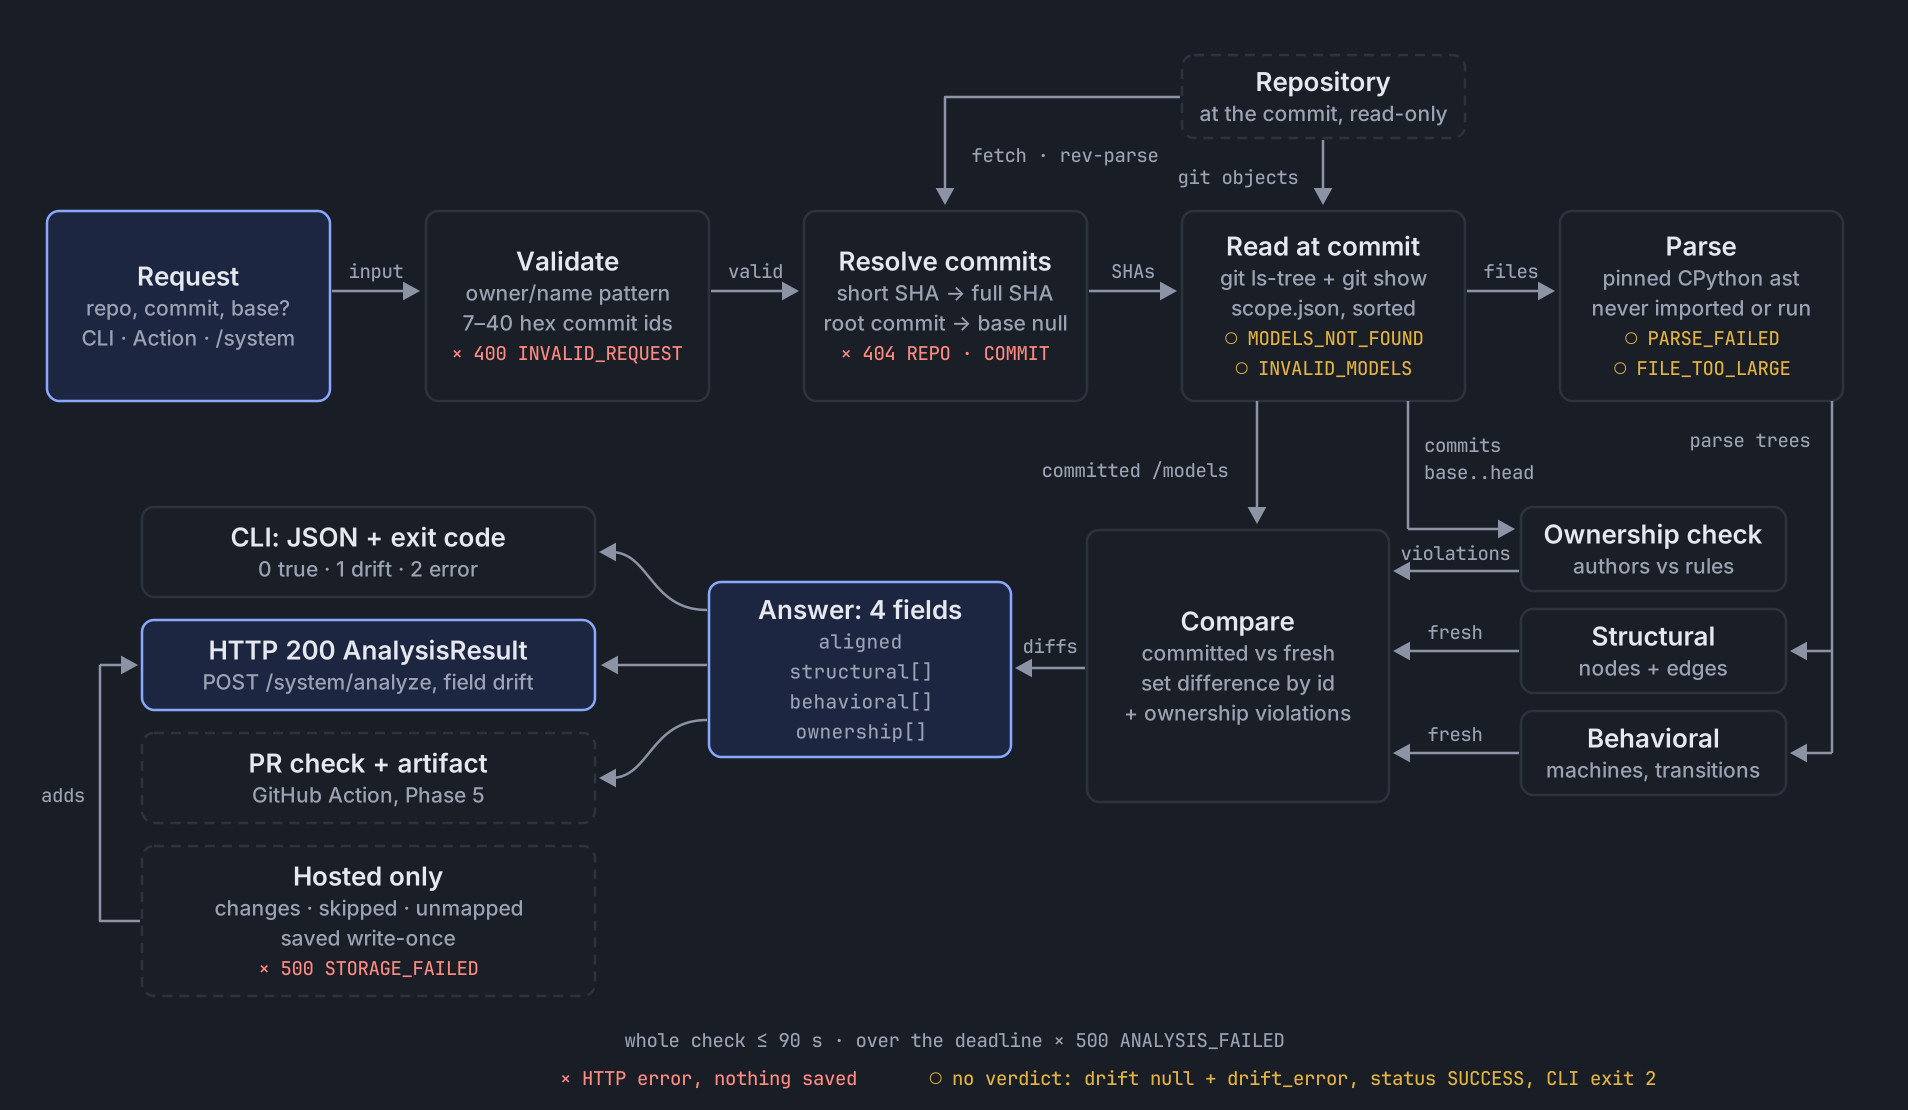
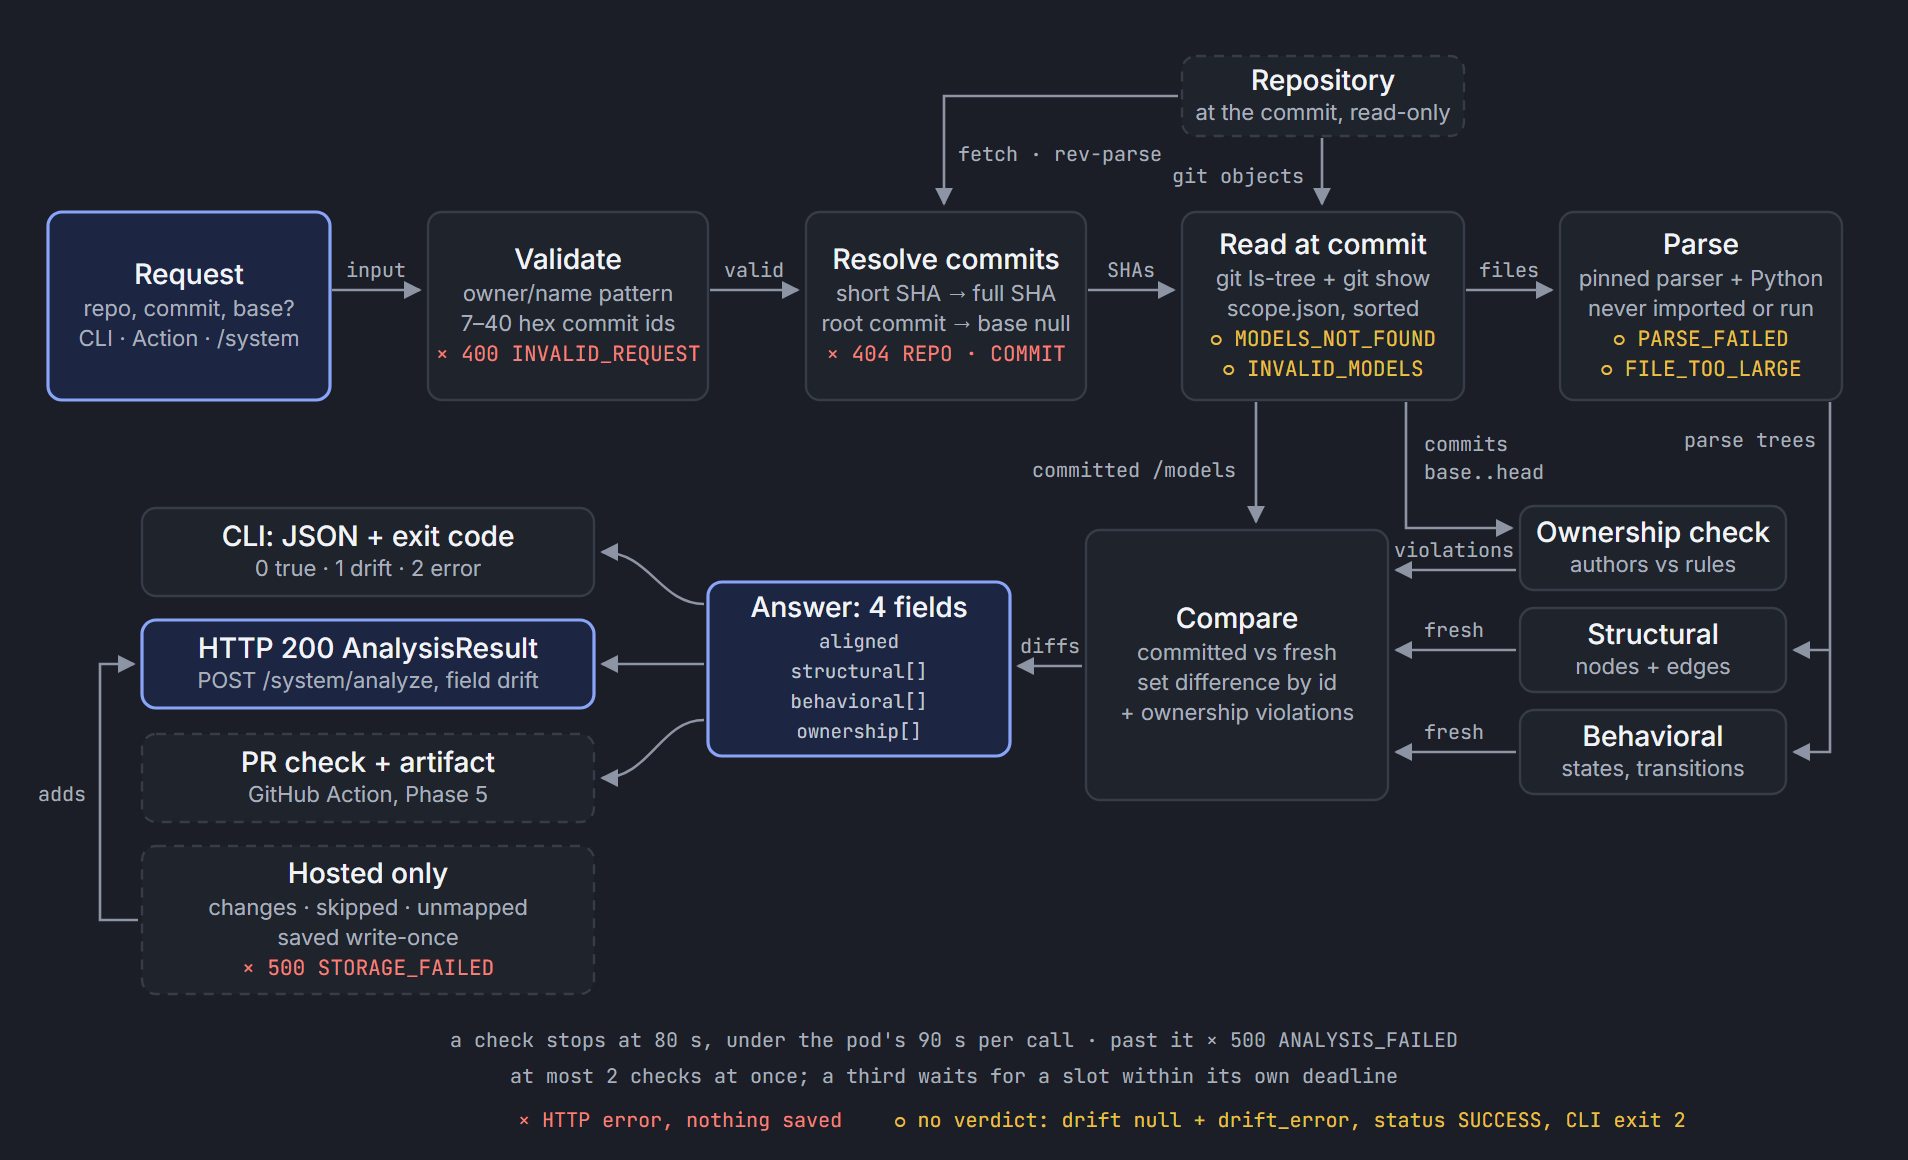
Redraw five diagrams to match the spec and contract 2.4.0
- one-check: 80 s per check, at most 2 at once, no parser named,
  behavioral as states and transitions
- four-field-answer: T-18 to T-21 skip, /health failure gives error
- cross-team-test: one-session 409, /health failure, stop at 570 s
- models-folder: no calls edges; init proposes exact-path ownership
  rules; renames judged at the old path
- who-talks-to-what: an ownership generator, so three generators

The docs map follows the diagrams, and ticket 12 is closed.

diff --git a/docs/README.md b/docs/README.md
@@ -31,13 +31,13 @@ The pod contract with Team 16. Both teams' registry rows link it. It follows Tea
 
 Diagrams of the planned system, exported from the Phase 4 overview page.
 
-- `models/who-talks-to-what.png` — the developer, GitHub and a tester reach one drifter core through the CLI, the GitHub Action (Phase 5) and the hosted service, which serves the pod contract's routes and adds change detection and a result store; the repository is only read. Read it first to understand the system.
+- `models/who-talks-to-what.png` — the developer, GitHub and a tester reach one drifter core (orchestrator, GitHub integration, three generators, comparison) through the CLI, the GitHub Action (Phase 5) and the hosted service, which serves the pod contract's routes and adds change detection and a result store; the repository is only read. Read it first to understand the system.
 - `models/behavioral-model.png` — lifecycle of a repository under the tool: init proposes the models, a person commits them, and each push ends Aligned, Drifted or Failed. The Mermaid source in spec §3.2 is the text version. Only structural and behavioral are regenerated; ownership is checked against its rules (spec §3.2).
-- `models/one-check.png` — one check step by step, from request to four-field answer, with the HTTP error or no-verdict code each step can return, and what the hosted service adds. Read it when working on the orchestrator or errors.
-- `models/models-folder.png` — the four files in `/models` and what each holds. Structural follows `base/structure.md`; behavioral names are illustrative until its format is settled.
+- `models/one-check.png` — one check step by step, from request to four-field answer, with the HTTP error or no-verdict code each step can return, the 80 s deadline per check, and what the hosted service adds. Read it when working on the orchestrator or errors.
+- `models/models-folder.png` — the four files in `/models` and what each holds. Structural follows `base/structure.md` (imports and inherits edges, no calls); behavioral names are illustrative until its format is settled; init proposes one exact-path ownership rule per file.
 - `models/comparison.png` — how differences are decided: set difference by id for structural and behavioral (ADDED, REMOVED, MODIFIED), a rule check per commit for ownership (VIOLATION).
-- `models/four-field-answer.png` — test T-26: the four-field answer as the `drift` key of `POST /system/analyze`, how a tester compares it with `contract/model-golden-outputs.json`, and when the test passes, fails or is skipped. A test is skipped when the target's `/health` does not list `model_drift`.
-- `models/cross-team-test.png` — one cross-team test session as `contract/pod-contract.md` defines it: tester and system routes, the T-01 to T-33 loop over both fixtures, and the report. The tester reads `/health` once first and skips each test whose feature the target does not list.
+- `models/four-field-answer.png` — test T-26: the four-field answer as the `drift` key of `POST /system/analyze`, how a tester compares it with `contract/model-golden-outputs.json`, and when the test passes, fails or is skipped. A test is skipped when the target's `/health` does not list `model_drift`, and is `error` when `/health` gives no 200 within 90 s.
+- `models/cross-team-test.png` — one cross-team test session as `contract/pod-contract.md` defines it: tester and system routes, the T-01 to T-33 loop over both fixtures, and the report. The tester reads `/health` once first and skips each test whose feature the target does not list. It also shows the one-session 409 and the stop at 570 s of the 600 s run.
 - `models/research-evidence.png` — Team 15's tool research: what runs at runtime, what only serves tests, what is rejected. Team 15's choices, not the pod contract.
 
 ## tickets/

diff --git a/docs/tickets/contract-contradictions.md b/docs/tickets/contract-contradictions.md
@@ -19,6 +19,7 @@ Closed on 2026-10-31, in contract 2.4.0 and the spec:
 | 8 | L4 may change structural too | fixture rule: spec §4.2 |
 | 9 | System deadline equals tester timeout | 80 s per check: spec §2.2, `phase4.md` step A |
 | 10 | A third concurrent check | waits within its deadline: spec §7.3 |
+| 12 | Diagrams out of date | five diagrams redrawn to the spec and contract 2.4.0: `docs/models/`, `docs/README.md` |
 | 13 | Outdated text in the spec and plan | spec header and "How to read"; `phase4.md` Q8 and status |
 
 ## Open
@@ -29,7 +30,6 @@ Closed on 2026-10-31, in contract 2.4.0 and the spec:
 | 4 | Team 16's `unmapped` wording | v1.1 OpenAPI vs v1.1 SPEC and goldens | with 2.4.0 | Team 16 |
 | 5 | Our system's behavior differs from Team 16's | course PDF vs contract deviation 1 | Phase 5 decision | Team 15 |
 | 11 | `c5-docs-only` is never tested | contract AC-01 vs §4 test list | low | Team 15, ask Team 16 |
-| 12 | Diagrams out of date | `docs/models/*.png` vs spec and contract | housekeeping | Team 15 |
 
 ```mermaid
 flowchart LR
@@ -120,21 +120,6 @@ AC-01 is v1.1 text copied word for word, so it cannot be reworded.
 - **If no:** leave it. Spec §7.4's test of all 10 cases still covers our system.
 
 **Done when.** Both testers' lists agree on c5.
-
-## Housekeeping
-
-### 12. Diagrams out of date
-
-| Diagram | Says | Should say |
-| --- | --- | --- |
-| `four-field-answer.png` | "T-18, T-19, T-21 skip on a system without prose_detector" | T-18 to T-21 |
-| `one-check.png` | "whole check ≤ 90 s" | 80 s per check (spec §2.2) |
-| `one-check.png` | "pinned CPython ast" | spec §2.2 names no parser; either the spec adopts `ast` (`phase4.md` Q2) or the diagram drops the name |
-| `cross-team-test.png` | the tester loop | add the 600 s run limit, the `/health` failure rule and the one-session 409, if the diagram should show edge cases |
-
-The images are exports from the Phase 4 overview page; edit them there, not here.
-
-**Done when.** The diagrams are re-exported and `docs/README.md`'s entries match them.
 
 ## Not tickets: proposals for Phase 5
 
